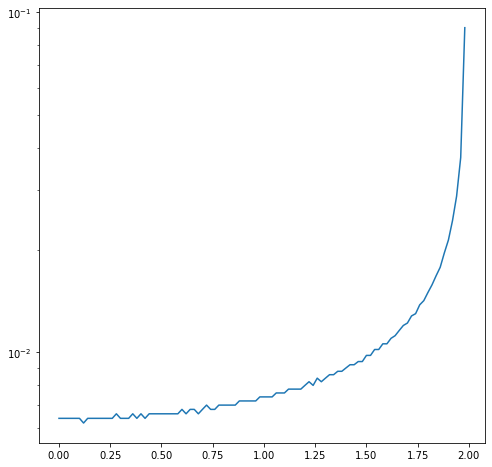
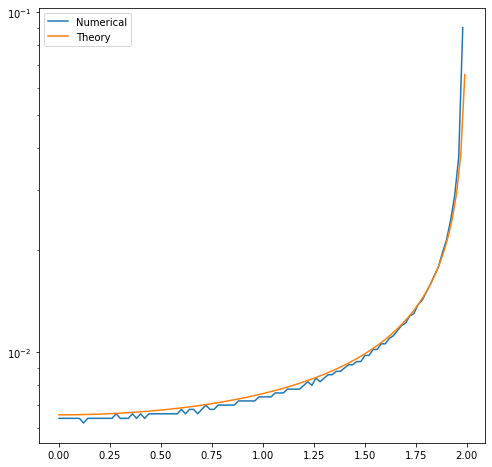
Routine

diff --git a/test.py b/test.py
@@ -5,8 +5,6 @@ import double_pend as dp
 th1_dist = np.linspace(0,2*np.pi,num=10000)
 th2_dist = np.linspace(0,2*np.pi,num=10000)
 
-distance_arr = np.linspace(0,2,num=1000)
-
 th1,th2 = np.meshgrid(th1_dist,th2_dist)
 
 distance = dp.dist_to_end(th1,th2)
@@ -16,7 +14,28 @@ distance = dp.dist_to_end(th1,th2)
 hist = np.histogram(distance, bins=100)
 
 #%%
+
+distance_arr = np.linspace(0,1.99,num=100)
+
+def theory (x):
+
+    P = np.sqrt(1-0.25*x**2)
+    P = 1/P
+    P = P/np.pi
+
+    return P
+
+
 plt.figure(figsize=(8,8))
 plt.yscale('log')
-plt.plot(hist[1][:-1],hist[0]/np.sum(hist[0]))
+plt.plot(hist[1][:-1],hist[0]/np.sum(hist[0]),label="Numerical")
+
+y = theory(distance_arr)
+y = y / np.sum(y)
+
+# plt.figure(figsize=(8,8))
+# plt.yscale('log')
+plt.plot(distance_arr,y,label="Theory")
+
+plt.legend()
 # %%
